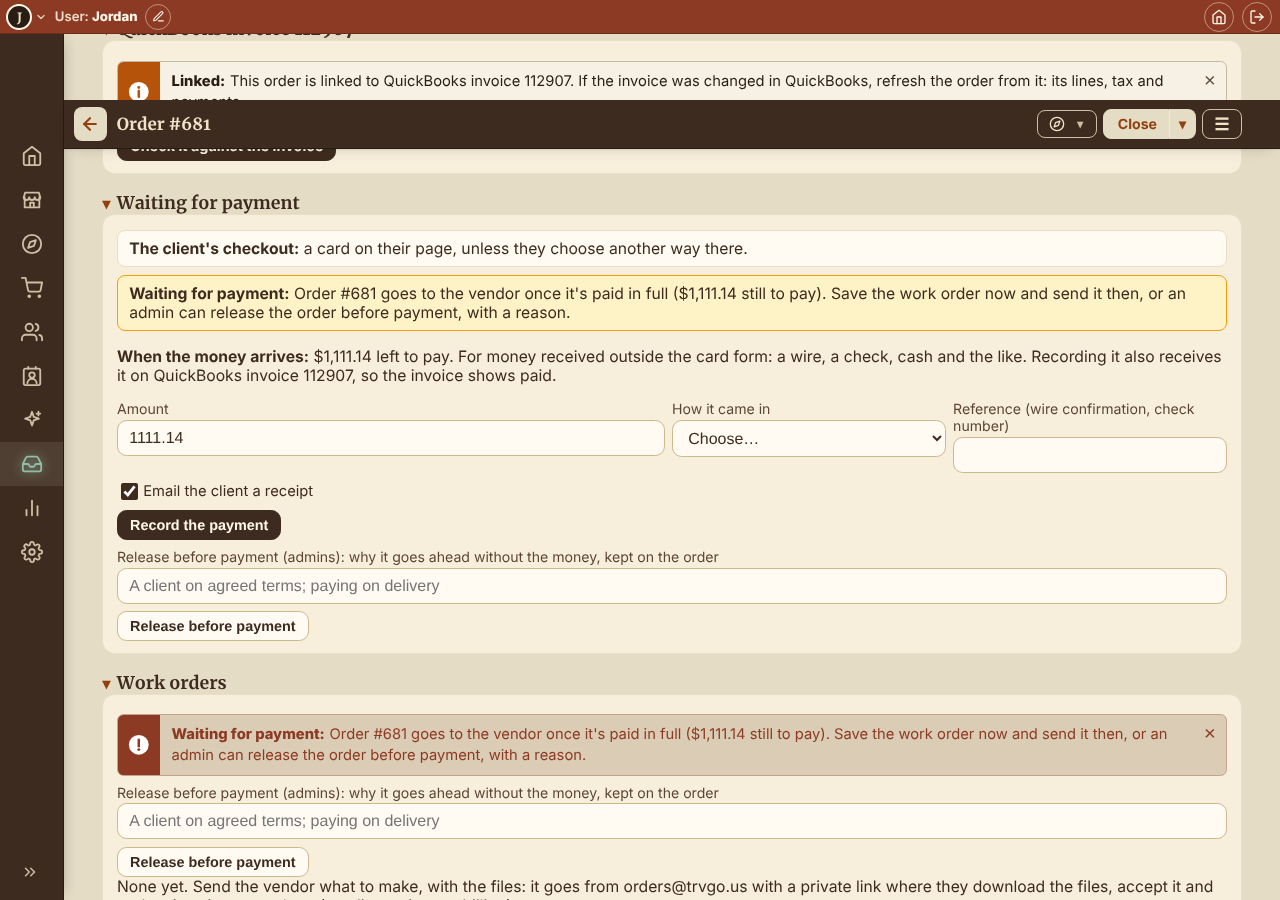
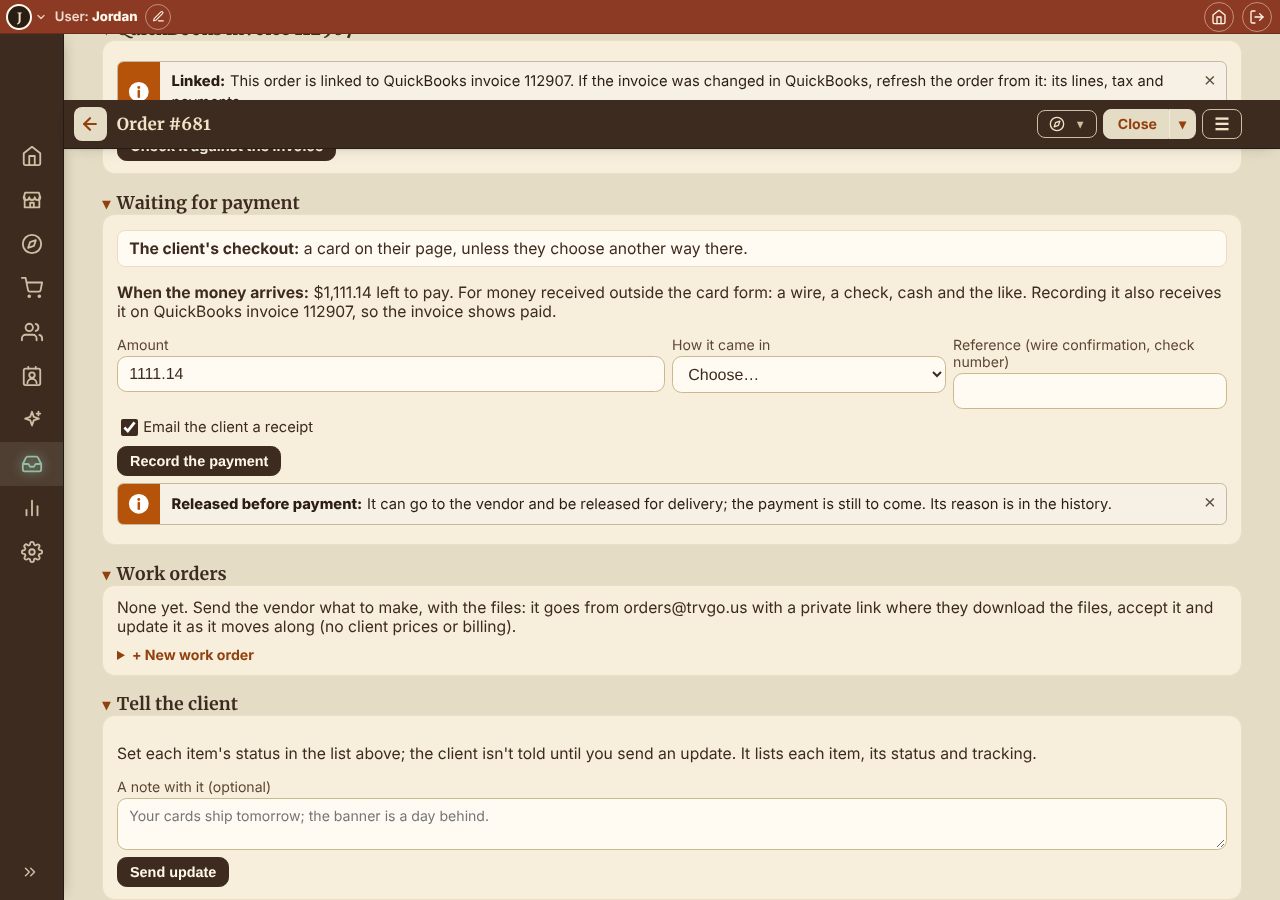
Collect the balance: the payment hold said once on the order page (Design reviewer); list screens
Work orders no longer repeats the red Waiting for payment notice and the Release before payment form shown
under Waiting for payment (or Payment hold): one amber line, Held until it's paid: <that heading> ↑, with no ×.
The list at 1280 and 390, the landing, and a held order's page in the screens. collect-balance.cjs 10/10;
6 fail on the live files. Re-sent as collect-balance.zip (4 files), built on Sync 19:01 UTC.

Claude-Session: https://claude.ai/code/session_01CXLi5kEUy5gPJ4PG34SZhy

Changed region(s): [[0.0625, 0.3111, 0.9688, 0.9956], [0.7188, 0.4356, 0.9375, 0.4978]]

diff --git a/README.md b/README.md
@@ -62,7 +62,7 @@ The site's code isn't here. It runs on the server and in OneDrive, and its live 
 | `tools/design-tests/` | The design releases' tests (`design/css-theme-brand.md`): `edit-switch.php` (Release 3a's Edit page switch: off shows the published page only, on shows drafts and Edit), `hero-order.php` (3b-1: real photos before stock, the stock credit on the photo), `strip-towns.php` (the hub's weather strip: one town per district, no repeats), `table.php` + `table.mjs` with `table-page.php` (T1, design/table-standard.md: one table for the admin's lists: paging and the count, ⋯ with words and a greyed item's reason, group rows, no data yet said once, skeleton, phone cards), `t4-sort.php` (T4: sorting a list with group rows, run from `api.php`'s own block), `table-menu.cjs` (a last row's ⋯ menu is never cut off, at 1280 and 390), `drawer-hash.cjs` (an anchored admin link opened in the drawer lands on its card), `map-back.cjs` (an open card on the map goes back to the list where it was), `send-to-maps/` (decisions/0174 release 1: `send-to-maps.cjs` with `page.php`, the chooser at 1280 and 390, legs, Apple and Google links, every stop once, closing, remembered, 48 checks; `rules.php`: private, mailbox, story-only and ZIP-middle stops left out, 8 checks), `place-photos/` (card photos: the finder's rules and the Parks strip near the place, 19 checks; `want.php`: a page opened without a photo is looked up first, 8 checks; `onspot.php`: a photo taken within 1.5 km needs only the place's own words, 10 checks), `place-page.cjs` (the place page at 1280 and 390: the viewer names what's in the photo, its counts, views at 0, the engage bar's ⋯, Plan a trip here, a mailbox's missing Directions; 48 checks), `pulse-filters.cjs` (the admin Pulse's one filter button rendered at 1280 and 390: Senders and Levels with counts, tags with ×, Group by's small groups open, Open all / Close all, saved views with the account and Undo; 65 checks), `search-fixes.cjs` (search's tabs adding up to Results and named as the rows' tags, Peek on a listing, an outdoor place and a story, the lacking note above the rows, the guide offer under them, Esc closing only the pop-up over the panel, at 1280 and 390; 29 checks), `card-fixes/run.php` (cards and photos: no distance under half a mile, a stock photo never twice in a list, none on a memorial, the credit on the photo with an i, the corner icon's disc; 10 checks), `get-local-r2.cjs` (Get Local R2 rendered at 1280 and 390: Filters, Arrange, Sort; the cards' tools and a mailbox's missing Directions; Table's column menus; the list beside the map and the A/B counts; the header's folded search; the comments box; 42 checks), `phone-menu.cjs` (the phone menu at 390: opened from the compass, no outline, AI Assist, Help Center clear, option B's sizes, × and Esc; 12 checks), `own-quick-counts.cjs` (your own quick searches counted where you are: the search's own total, none for open now or nothing found, ⊕ and ✎ Done, nothing recorded, old counts cleared; 18 checks), `map-tokens/` (the map release rendered: a trip's route lime over its casing by day, the Route row, a one-day trip, the shared map's panel and ring before and after; 22 checks), `r3e/` (Release 3e rendered: each page's contrast before and after at 1280 and 390, the owner's accent note pressed; 16 checks), `signin-3f/` (Release 3f, sign-in, rendered at 1280 and 390 with `seed.sql`: the tabs, the social buttons' words, no cart, bell or search on sign-in pages, the code box, Can't get the email? and its owners' case pressed button by button, the authenticator notice; 136 checks) |
 | `tools/trip-tests/` | Trips' tests (decisions/0174 release 2): `trips.php` (the rules on a real MySQL or MariaDB: private, mailbox, closed, hidden and pointless places refused with why; owners only; Undo; Delete kept 30 days; the device's trip moved in; a journey's stops; account deletion; 28 checks) and `trips.cjs` with `trips-seed.php` (rendered at 1280 and 390: the picker from ⋯ and Get Local, Undo, Already in, greyed, Make it my trip, Your trips, a guest's trip and signing in; 67 checks); `trip-page.php` (release 3 on MariaDB: timing, hours and daylight, the trip's zone, moving, fewer days, stays, Use these stops; 21 checks) and `trip-page.cjs` (the trip page rendered at 1280 and 390: Save as a trip, Use these stops, times and legs, the map, ↑ ↓ and drag, days, Closed when you'd arrive and Move, Undo, Print, Rename, Delete, not found, Peek's Add to a trip; 57 checks); `sharing.php` (release 4 on MariaDB: share links on, off and new, what shows publicly, counts never who, Personal Guides checked like a journey, reported, hidden, withdrawn; 26 checks) and `sharing.cjs` with `sharing-seed.php` (rendered: Share, the view-only link, a private place left out and a closed one greyed, Turn off, Publish, the guide as a content page, Admin → Journeys' Hide and Restore, Withdraw, Admin → Insights; 44 checks) |
 | `tools/dispatcher-tests/` | decisions/0176's tests: `r1.php` (release 1, the alarm thread on MariaDB: the one shape per surface, one message per alarm updated in place, the push's title and status, Recovered closing quietly, the Escalation Notice raising the same message, the board's rows keeping their parts; 43 checks), `r2.php` with `r2.cjs` and `r2-page.php` (release 2, a service's issue as one thread: the same words on the card, in Pulse, on Outside services and Start; Status from the state now; no ×; no Its alarm on the board; buttons kept; 20 + 10 checks), `r2-notice.php` (release 2 part 2, the alarm notice: the email subject and Pulse row, the push title, the body, one email thread per alarm, a trip at once in quiet hours; 12 checks), `r3.php` with `r3.cjs` and `r3-page.php` (release 3, Fix it: the cause → landing map, a refused key on Its key with Replace ready, a quota on Caps and paces, a site that blocked W0 on its line on W0's page with Reactivate, their trouble with no Fix it, Fix it first on the board, in Pulse and on the card, a push opening its Pulse case on Fix it, a cap's check on the spot; 44 + 48 checks), `r4.php` with `r4.cjs` and `r4-page.php` (release 4, uploads' staff threads: a place's photo when it goes live, one thread per journey, a report joining it, Hide and Show again, Take it down and Leave it up through their workflows; new artwork on an order for the order's team; a report's own case carrying the photo's steps; never a push; 42 + 34 checks) |
-| `tools/order-tests/` | Orders' tests: `chargefor.php <lib dir>` (a test copy that took real money is looked up for its refund in production; charging one is still refused; 3 checks, no database); `release-a.php <root>` and `release-a.cjs` (the ordering release A, 2026-11-23: the deposit from cost + 15%, the tax choice, the Ship to, the QuickBooks pull's exemption and Leave it, a cancel's void, a guest's Back to the cart, no answer from the card processor, several addresses refused for now, the Orders list's Balance due and Next step; a double press of Add and "abc" in the browser; `release-a-split.cjs`, Split into one order per address and Undo at 1280 and 390; 32 + 2 + 8 checks); `rulings.php <root>` (the rulings on the order model, on its own MariaDB database (it drops and remakes its tables): a proof per printed item, part payments on QuickBooks' page, paid in full before the vendor (a deposit order: its deposit) and before delivery, the admin's release with a reason, the vendor's Shipped held for the balance with its Pulse step, deposits (65%, replaced by cost + 15% in 0177), invoice later retired, the one Pulse case for orders still on invoice later; 83 checks) and `ironclad.php <root>` (the ordering survey: 32 cases on the harness's database, each WORKS, PARTIAL or BROKEN with its evidence) and `ironclad.cjs` with `ironclad-seed.php` (the client's page and Back-Office → Orders rendered at 1280 and 390: 18 cases); `collect-balance.cjs` (an order shipped or ready with a balance due says Collect the balance and opens at its payment step, its heading below the command strip, at 1280 and 390; 6 checks); `rulings.cjs` with `rulings-seed.php` (rendered at 1280 and 390 in the design harness: Send refused with why, Release before payment for an admin and greyed for Staff, the hold on a shipped work order, the pay-mode list, the client's note, Pulse's Record the balance, the invoice-later case pressed each way; 59 checks) |
+| `tools/order-tests/` | Orders' tests: `chargefor.php <lib dir>` (a test copy that took real money is looked up for its refund in production; charging one is still refused; 3 checks, no database); `release-a.php <root>` and `release-a.cjs` (the ordering release A, 2026-11-23: the deposit from cost + 15%, the tax choice, the Ship to, the QuickBooks pull's exemption and Leave it, a cancel's void, a guest's Back to the cart, no answer from the card processor, several addresses refused for now, the Orders list's Balance due and Next step; a double press of Add and "abc" in the browser; `release-a-split.cjs`, Split into one order per address and Undo at 1280 and 390; 32 + 2 + 8 checks); `rulings.php <root>` (the rulings on the order model, on its own MariaDB database (it drops and remakes its tables): a proof per printed item, part payments on QuickBooks' page, paid in full before the vendor (a deposit order: its deposit) and before delivery, the admin's release with a reason, the vendor's Shipped held for the balance with its Pulse step, deposits (65%, replaced by cost + 15% in 0177), invoice later retired, the one Pulse case for orders still on invoice later; 83 checks) and `ironclad.php <root>` (the ordering survey: 32 cases on the harness's database, each WORKS, PARTIAL or BROKEN with its evidence) and `ironclad.cjs` with `ironclad-seed.php` (the client's page and Back-Office → Orders rendered at 1280 and 390: 18 cases); `collect-balance.cjs` (an order shipped or ready with a balance due says Collect the balance and opens at its payment step, its heading below the command strip; an order waiting for payment says its hold once, Work orders pointing up to it in amber; at 1280 and 390; 10 checks); `rulings.cjs` with `rulings-seed.php` (rendered at 1280 and 390 in the design harness: Send refused with why, Release before payment for an admin and greyed for Staff, the hold on a shipped work order, the pay-mode list, the client's note, Pulse's Record the balance, the invoice-later case pressed each way; 59 checks) |
 | `tools/place-tests/` | Places' tests: `wdqs.php` (Wikidata within its limits: one query at a time, its Retry-After honoured by every caller, answers kept 7 days; 15 checks on a real MySQL or MariaDB; `census-backup.php` (decisions/0175's note: the Census geocoder's backup: a connection failure hands the batch to the worker, its answers placed by the same rules, any other hold waits; 15 checks)) |
 | `tools/listing-tests/` | Business listings' tests: `claim-kinds.php` and `claim-kinds.cjs` (who might claim a listing: the short button by kind, the agency from its Nexus, the roles, the agency's own email first, Free for agencies and nonprofits; 11 + 33 checks); `handled-review.php` (a review item no longer waiting says what happened to it, who and when, and links its listing: never a dead end), `portal-hidden.php` (site-audit case #22: an owner or manager opens their own hidden listing in the portal, the public lookup still hides it, and the editor's notice says why only where the reason is theirs to know; on a real MySQL or MariaDB) |
 | `tools/staging-tests/` | decisions/0165's tests: `unit.php` (the merge rules, the register of record numbers, the table classes, the gate's scan) and `db.php` (catch-up, renumbering, preview, publish, backward undo and roll back on a real MySQL or MariaDB) |

diff --git a/deliveries/README.md b/deliveries/README.md
@@ -5,7 +5,7 @@ Generated by `tools/page-audit/deliveries.py`; don't edit by hand. "Partial" mea
 
 | Zip | Built on | Status | Live in | Not live yet | What |
 |---|---|---|---|---|---|
-| `collect-balance.zip` | 130f41a Sync: 2026-11-23 19:01 UTC | pending |  | `app/admin/tools.php`, `app/ui/command-strip.php`, `app/ui/faq.md` | Collect the balance on an order shipped or ready with money owed; section links land below the command strip; FAQ. Built on Sync: 2026-11-23 19:01 UTC Sent through git (releases/inbox). |
+| `collect-balance.zip` | 130f41a Sync: 2026-11-23 19:01 UTC | pending |  | `app/admin/tools.php`, `app/ui/command-strip.php`, `app/ui/faq.md`, `website/admin/client-order.php` | Collect the balance on an order shipped or ready with money owed; section links land below the command strip; the payment hold said once on the order page; FAQ. Built on Sync: 2026-11-23 19:01 UTC Sent through git (releases/inbox). |
 | `board-fixes-5.zip` | a71303b Sync: 2026-11-23 18:40 UTC | live | 130f41a Sync: 2026-11-23 19:01 UTC |  | Restores board-fixes-4's (#269) changes to kit-css.php, tools.php and faq.md, overwritten by #270 a minute later; built on Sync 18:40 UTC (a71303b), every #270 line kept Sent through git (releases/inbox). |
 | `orders-release-a.zip` | 8283c24 Sync: 2026-11-23 14:53 UTC | live | a71303b Sync: 2026-11-23 18:40 UTC |  | Orders release A: placing, configuring and paying for an order, ironclad, with Split into one order per address and the design review's changes (Jason, 2026-11-23); built on Sync: 2026-11-23 14:53 UTC Sent through git (releases/inbox). |
 | `board-fixes-4.zip` | 8283c24 Sync: 2026-11-23 14:53 UTC | partial |  | `app/admin/kit-css.php`, `app/admin/tools.php`, `app/ui/faq.md` | Jobs and words with both design reviews; built on Sync 14:53 UTC (replaces the unsent board-fixes-3.zip) Sent through git (releases/inbox). |
